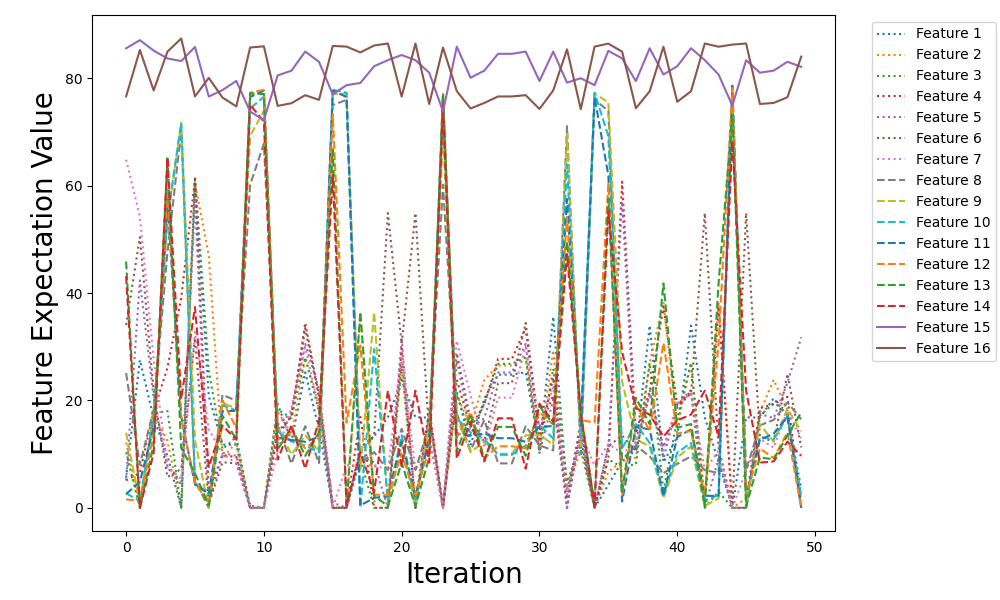
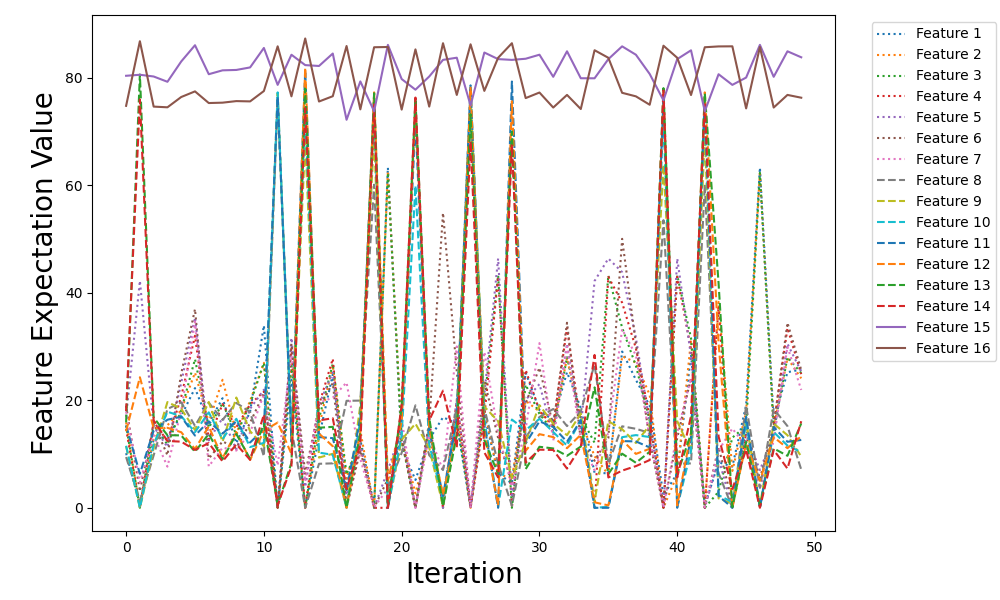
new results

Changed region(s): [[0.124, 0.06, 0.806, 0.87], [0.062, 0.48, 0.093, 0.51], [0.062, 0.12, 0.093, 0.15]]

diff --git a/ex_2.py b/ex_2.py
@@ -3,21 +3,21 @@ import utils
 from droneworld import DroneWorld
 
 pol_comb = [
-    #['avoid_o', 'random'],
+    ['avoid_o', 'random'],
     #['avoid_p', 'random'],
     #['avoid_a', 'random'],
-    #['random', 'avoid_o'],
+    ['random', 'avoid_o']#,
     #['random', 'avoid_p'],
     #['random', 'avoid_a'],
     #['avoid_o', 'avoid_p'],
     #['avoid_o', 'avoid_a'],
     #['avoid_p', 'avoid_o'],
-    ['avoid_p', 'avoid_a'],
-    ['avoid_a', 'avoid_p'],
-    ['avoid_a', 'avoid_o']
+    #['avoid_p', 'avoid_a'],
+    #['avoid_a', 'avoid_p'],
+    #['avoid_a', 'avoid_o']
 ]
 
-irl_iterations = 40
+irl_iterations = 50
 n_traj = 100
 n_traj_training = 20
 n_steps = 250
